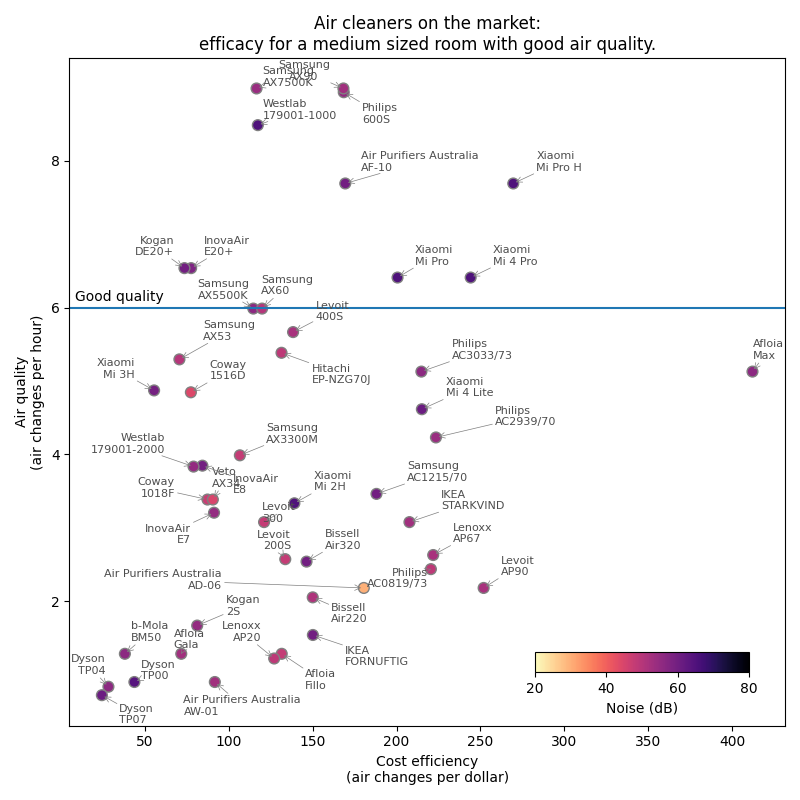
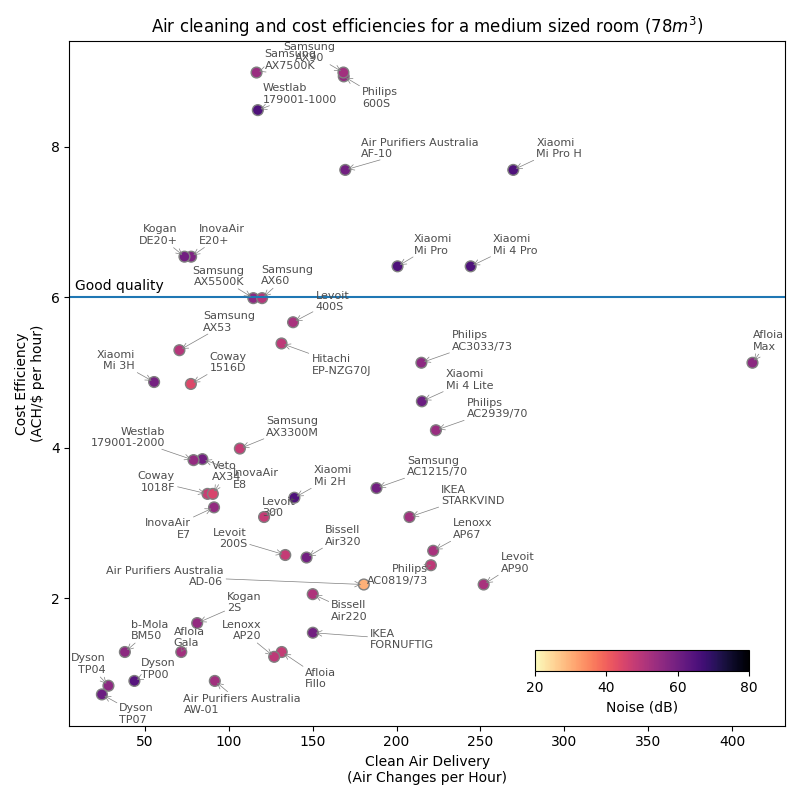
Quick push

diff --git a/products/decision_tool.html b/products/decision_tool.html
@@ -16,12 +16,11 @@
         image.alt = "Volume chosen: " + vol + " , quality chosen: " + qual
         }
 </script>
-<div class="uomcontent">
-<div>
-<p>
-Every room is different. Answer these quick questions to sort the data by what's most economical for you. The running costs and noise levels are calculated using manufacturer data and the likely level of use we predict you would need to keep your room clean to the level you've specified. For those cases where a single device just won't do the job, we've calculated how many of that device you would need, and how noisy and costly they would all be together.
+<div class="uomcontent" role="document" id="top">
+<div class="main" id="" role="main">
+<p class="notice notice--info" style="padding-top: 1.5rem;">
+Running costs and noise levels (on the highest fan settings) are calculated from manufacturer data. Select the approximate volume and the additional air cleaning to ventilation that you require. Natural ventilation provides 1-2 ACH; mechanical ventilation is higher. You will see that multiple devices sometimes provides the best effective air cleaning for the best value and noise requirements of your space.
 </p>
-<div align="center">
 <form id="userinput" >
 <div class="sq-form-question sq-form-question-tickbox-list ">
 <fieldset id="volumeoptions" class="sq-form-section">
@@ -36,8 +35,9 @@ Every room is different. Answer these quick questions to sort the data by what's
 </fieldset>
 </div>
 <div class="sq-form-question sq-form-question-tickbox-list ">
+<br/>
 <fieldset id="qualityoptions" class="sq-form-section">
-<legend class="sq-form-section-title">How high do you want the air quality to be in this room?</legend>
+<legend class="sq-form-section-title">How much additional air cleaning do you require?</legend>
 
 <input type="radio" id='poorop' value="poor" name="quality" onClick="update(this.form)">
 <label for="poorop">Poor (4ACH)</label>
@@ -48,10 +48,9 @@ Every room is different. Answer these quick questions to sort the data by what's
 </fieldset>
 </div>
 </form>
-<em>Last updated 2022-08-11</em>
+<p><em>Last updated 2022-08-16</em><p>
 <figure class="figure figure--min"><img id = 'chosenimage' src='https://rsbyrne.github.io/aircleaning/products/placeholder.png' alt="Cost analysis">
 </figure>
-</div>
 <script>
 update(document.getElementById('userinput'))
 </script>

diff --git a/products/overview.html b/products/overview.html
@@ -1,16 +1,16 @@
 
 <link rel="stylesheet" href="//dds-gen3.web.unimelb.edu.au/v12.1.3/uom.css">
 <link rel="stylesheet" href="https://cms.unimelb.edu.au/__data/assets/css_file_folder/0008/3224951/uom-mce-gen3.css?v=0.0.202">
-<div class="uomcontent">
-<div>
-<p>
-This chart brings all of our data together in one graphic. Based on a typical medium-sized room (78 m<sup>3</sup>), this chart asks: <ul><li>How many rooms full of clean air can this device buy for the cost of a dollar (left to right, where right is better)</li><li>How many rooms full of clean air can this device provide per hour (bottom to top, where top is better)</li><li>How noisy is the device (yellow to black, where yellow is better)</li></ul> The cost includes the upfront cost (spread over 5 years) plus the expected ongoing costs of electricity and filter replacements.
-</p>
-</div>
+<div class="uomcontent" role="document" id="top">
+<div class="main" id="" role="main">
+<p style="padding-top: 0;">
+This chart provides a means of evaluating ‘clean air’ value for money for various devices where:</p><ul><li>Augmented air cleaning air changes per hour (ventilation + air cleaning aiming for ACH of 6 or more)</li><li>Noise (yellow = quiet; black = noisy)
+</li><li>Cost per hour (upfront purchase plus 5 years of running costs including filter replacements and electricity @$0.2 kWh)</li></ul><
 <div align="center">
-<em>Last updated 2022-08-11</em>
+<em>Last updated 2022-08-16</em>
 <figure class="figure figure--min">
 <img id = 'synoptic' src='https://rsbyrne.github.io/aircleaning/products/synoptic.png' alt="Synoptic"> 
 </figure>
+</div>
 </div>
 </div>

diff --git a/aircleaning/produce.py b/aircleaning/produce.py
@@ -98,6 +98,56 @@ def cost_analysis(data=None, /, volume='medium', quality='good', path=productsdi
     plt.savefig(os.path.join(path, name) + '.png')
 
 
+def overview(path=productsdir, name='overview'):
+
+    vols, quals = load.get_volume_data(), load.get_quality_data()
+    mediumvol = f"{round(vols.loc['medium', 'levels'])} m<sup>3</sup>"
+    # goodqual = f"{round(quals.loc['good', 'levels'])} ACH"
+    nomperiod = round(float(load.get_parameters_data().loc['nominal period', 'value']))
+    nompower = float(load.get_parameters_data().loc['nominal power cost', 'value'])
+
+    strn = ''
+
+    strn += '\n' + '\n'.join((
+        '''<link rel="stylesheet" href="//dds-gen3.web.unimelb.edu.au/v12.1.3/uom.css">''',
+        '''<link rel="stylesheet" href="https://cms.unimelb.edu.au/__data/assets/css_file_folder/0008/3224951/uom-mce-gen3.css?v=0.0.202">''',
+        ))
+
+    # strn += '\n' + '\n'.join((
+    #     '''<div class="uomcontent" role="document" id="top">''',
+    #     '''<div class="main" id="" role="main">''',
+    #     '''<p style="padding-top: 0;">''',
+    #     f'''This chart brings all of our data together in one graphic. Based on a typical medium-sized room ({mediumvol}), this chart asks:</p><ul><li>How many rooms full of clean air can this device buy for the cost of a dollar (left to right, where right is better)</li><li>How many rooms full of clean air can this device provide per hour (bottom to top, where top is better)</li><li>How noisy is the device (yellow to black, where yellow is better)</li></ul><p>The cost includes the upfront cost (spread over {nomperiod} years) plus the expected ongoing costs of electricity and filter replacements.</p>''',
+    #     '''<div align="center">''',
+    #     f'''<em>Last updated {str(date.today())}</em>''',
+    #     '''<figure class="figure figure--min">''',
+    #     '''<img id = 'synoptic' src='https://rsbyrne.github.io/aircleaning/products/synoptic.png' alt="Synoptic"> ''',
+    #     '''</figure>''',
+    #     '''</div>''',
+    #     '''</div>''',
+    #     '''</div>''',
+    #     ))
+
+    strn += '\n' + '\n'.join((
+        '''<div class="uomcontent" role="document" id="top">''',
+        '''<div class="main" id="" role="main">''',
+        '''<p style="padding-top: 0;">''',
+        f'''This chart provides a means of evaluating ‘clean air’ value for money for various devices where:</p><ul><li>Augmented air cleaning air changes per hour (ventilation + air cleaning aiming for ACH of 6 or more)</li><li>Noise (yellow = quiet; black = noisy)
+</li><li>Cost per hour (upfront purchase plus {nomperiod} years of running costs including filter replacements and electricity @${nompower} kWh)</li></ul><''',
+        '''<div align="center">''',
+        f'''<em>Last updated {str(date.today())}</em>''',
+        '''<figure class="figure figure--min">''',
+        '''<img id = 'synoptic' src='https://rsbyrne.github.io/aircleaning/products/synoptic.png' alt="Synoptic"> ''',
+        '''</figure>''',
+        '''</div>''',
+        '''</div>''',
+        '''</div>''',
+        ))
+
+    with open(os.path.join(productsdir, name) + '.html', mode='w') as file:
+        file.write(strn)
+
+
 def make_cost_analysis_form_channel(overname, data, /):
     levels = data['levels'].astype(int)
     unit = data.attrs['units']['levels']
@@ -112,38 +162,6 @@ def make_cost_analysis_form_channel(overname, data, /):
             ))
     return strn
 
-def overview(path=productsdir, name='overview'):
-
-    vols, quals = load.get_volume_data(), load.get_quality_data()
-    mediumvol = f"{round(vols.loc['medium', 'levels'])} m<sup>3</sup>"
-    # goodqual = f"{round(quals.loc['good', 'levels'])} ACH"
-    nomperiod = round(float(load.get_parameters_data().loc['nominal period', 'value']))
-
-    strn = ''
-
-    strn += '\n' + '\n'.join((
-        '''<link rel="stylesheet" href="//dds-gen3.web.unimelb.edu.au/v12.1.3/uom.css">''',
-        '''<link rel="stylesheet" href="https://cms.unimelb.edu.au/__data/assets/css_file_folder/0008/3224951/uom-mce-gen3.css?v=0.0.202">''',
-        ))
-
-    strn += '\n' + '\n'.join((
-        '''<div class="uomcontent">''',
-        '''<div>''',
-        '''<p>''',
-        f'''This chart brings all of our data together in one graphic. Based on a typical medium-sized room ({mediumvol}), this chart asks: <ul><li>How many rooms full of clean air can this device buy for the cost of a dollar (left to right, where right is better)</li><li>How many rooms full of clean air can this device provide per hour (bottom to top, where top is better)</li><li>How noisy is the device (yellow to black, where yellow is better)</li></ul> The cost includes the upfront cost (spread over {nomperiod} years) plus the expected ongoing costs of electricity and filter replacements.''',
-        '''</p>''',
-        '''</div>''',
-        '''<div align="center">''',
-        f'''<em>Last updated {str(date.today())}</em>''',
-        '''<figure class="figure figure--min">''',
-        '''<img id = 'synoptic' src='https://rsbyrne.github.io/aircleaning/products/synoptic.png' alt="Synoptic"> ''',
-        '''</figure>''',
-        '''</div>''',
-        '''</div>''',
-        ))
-
-    with open(os.path.join(productsdir, name) + '.html', mode='w') as file:
-        file.write(strn)
 
 def decision_tool(path=productsdir, name='decision_tool'):
 
@@ -175,13 +193,12 @@ def decision_tool(path=productsdir, name='decision_tool'):
         ))
 
     strn += '\n' + '\n'.join((
-        '''<div class="uomcontent">''',
+        '''<div class="uomcontent" role="document" id="top">''',
         # '''<h1>Decision Tool</h2>''',
-        '''<div>''',
-        '''<p>''',
-        '''Every room is different. Answer these quick questions to sort the data by what's most economical for you. The running costs and noise levels are calculated using manufacturer data and the likely level of use we predict you would need to keep your room clean to the level you've specified. For those cases where a single device just won't do the job, we've calculated how many of that device you would need, and how noisy and costly they would all be together.''',
+        '''<div class="main" id="" role="main">''',
+        '''<p class="notice notice--info" style="padding-top: 1.5rem;">''',
+        '''Running costs and noise levels (on the highest fan settings) are calculated from manufacturer data. Select the approximate volume and the additional air cleaning to ventilation that you require. Natural ventilation provides 1-2 ACH; mechanical ventilation is higher. You will see that multiple devices sometimes provides the best effective air cleaning for the best value and noise requirements of your space.''',
         '''</p>''',
-        '''<div align="center">''',
         '''<form id="userinput" >''',
         ))
 
@@ -198,8 +215,9 @@ def decision_tool(path=productsdir, name='decision_tool'):
 
     strn += '\n' + '\n'.join((
         '''<div class="sq-form-question sq-form-question-tickbox-list ">''',
+        '''<br/>''',
         '''<fieldset id="qualityoptions" class="sq-form-section">''',
-        '''<legend class="sq-form-section-title">How high do you want the air quality to be in this room?</legend>''',
+        '''<legend class="sq-form-section-title">How much additional air cleaning do you require?</legend>''',
         ))
     strn += '\n' + make_cost_analysis_form_channel('quality', quals)
     strn += '\n' + '\n'.join((
@@ -209,11 +227,10 @@ def decision_tool(path=productsdir, name='decision_tool'):
 
     strn += '\n' + '\n'.join((
         '''</form>''',
-        f'''<em>Last updated {str(date.today())}</em>''',
+        f'''<p><em>Last updated {str(date.today())}</em><p>''',
         '''<figure class="figure figure--min">'''
         '''<img id = 'chosenimage' src='https://rsbyrne.github.io/aircleaning/products/placeholder.png' alt="Cost analysis">''',
         '''</figure>''',
-        '''</div>''',
         ))
 
     strn += '\n' + '\n'.join((
@@ -251,7 +268,8 @@ def synoptic(data=None, /, volume='medium', quality='good', path=productsdir):
     else:
         qualstr = f"{quality} ACH"
 
-    title = f"Air cleaners on the market:\nefficacy for a {volstr} sized room with {qualstr} air quality."
+    # title = f"Air cleaners on the market:\nefficacy for a {volstr} sized room with {qualstr} air quality."
+    title = f"Air cleaning and cost efficiencies for a medium sized room ($78m^3$)"
 
     data = analyse.synoptic_analysis(data, volume=volume)
 
@@ -272,8 +290,9 @@ def synoptic(data=None, /, volume='medium', quality='good', path=productsdir):
         data['costeff'], data['ach'],
         c=noisecolours, s=60, edgecolors='grey'
         )
-    ax.set_xlabel("Cost efficiency\n(air changes per dollar)")
-    ax.set_ylabel("Air quality\n(air changes per hour)")
+    # ax.set_xlabel("Cost efficiency\n(air changes per dollar)")
+    ax.set_xlabel("Clean Air Delivery\n(Air Changes per Hour)")
+    ax.set_ylabel("Cost Efficiency\n(ACH/$ per hour)")
     getnom = lambda x0, x1: x1 - x0
 
     plt.colorbar(
